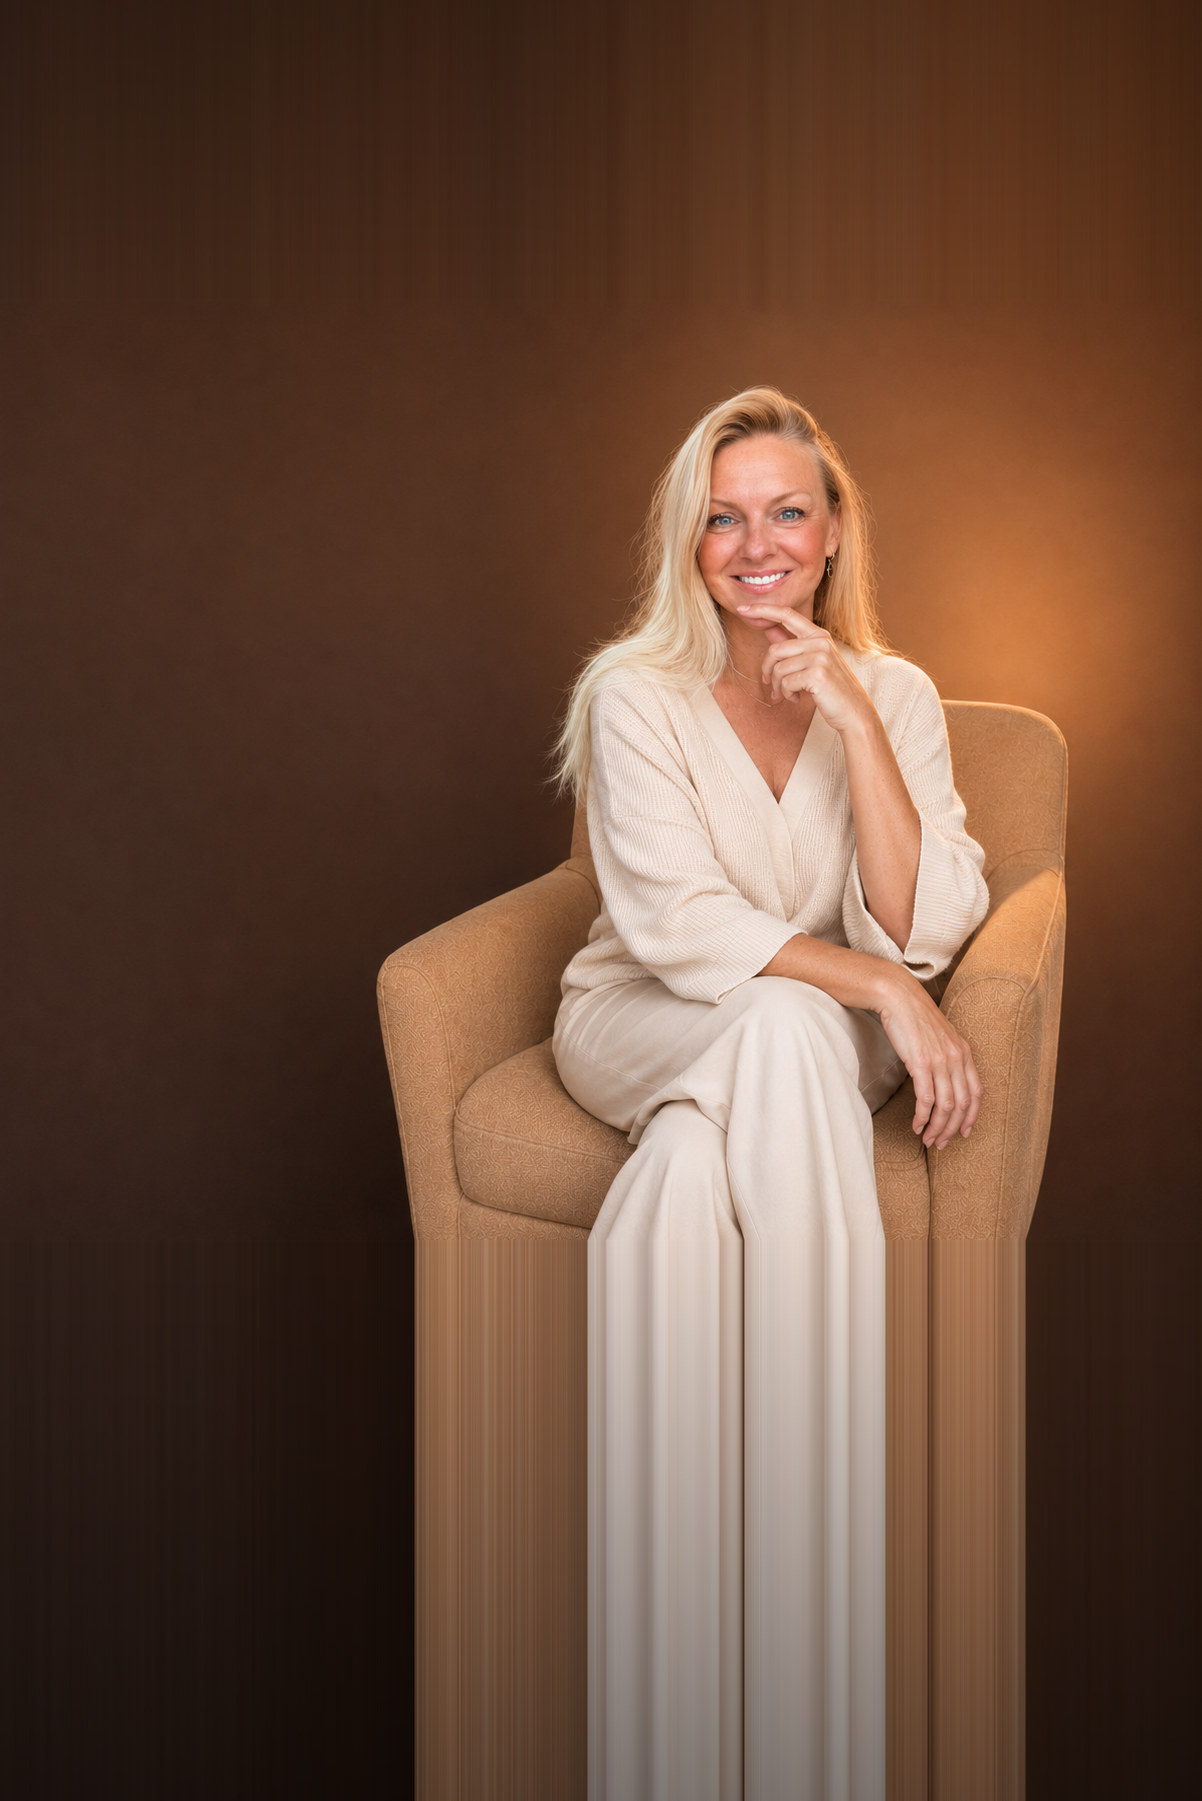
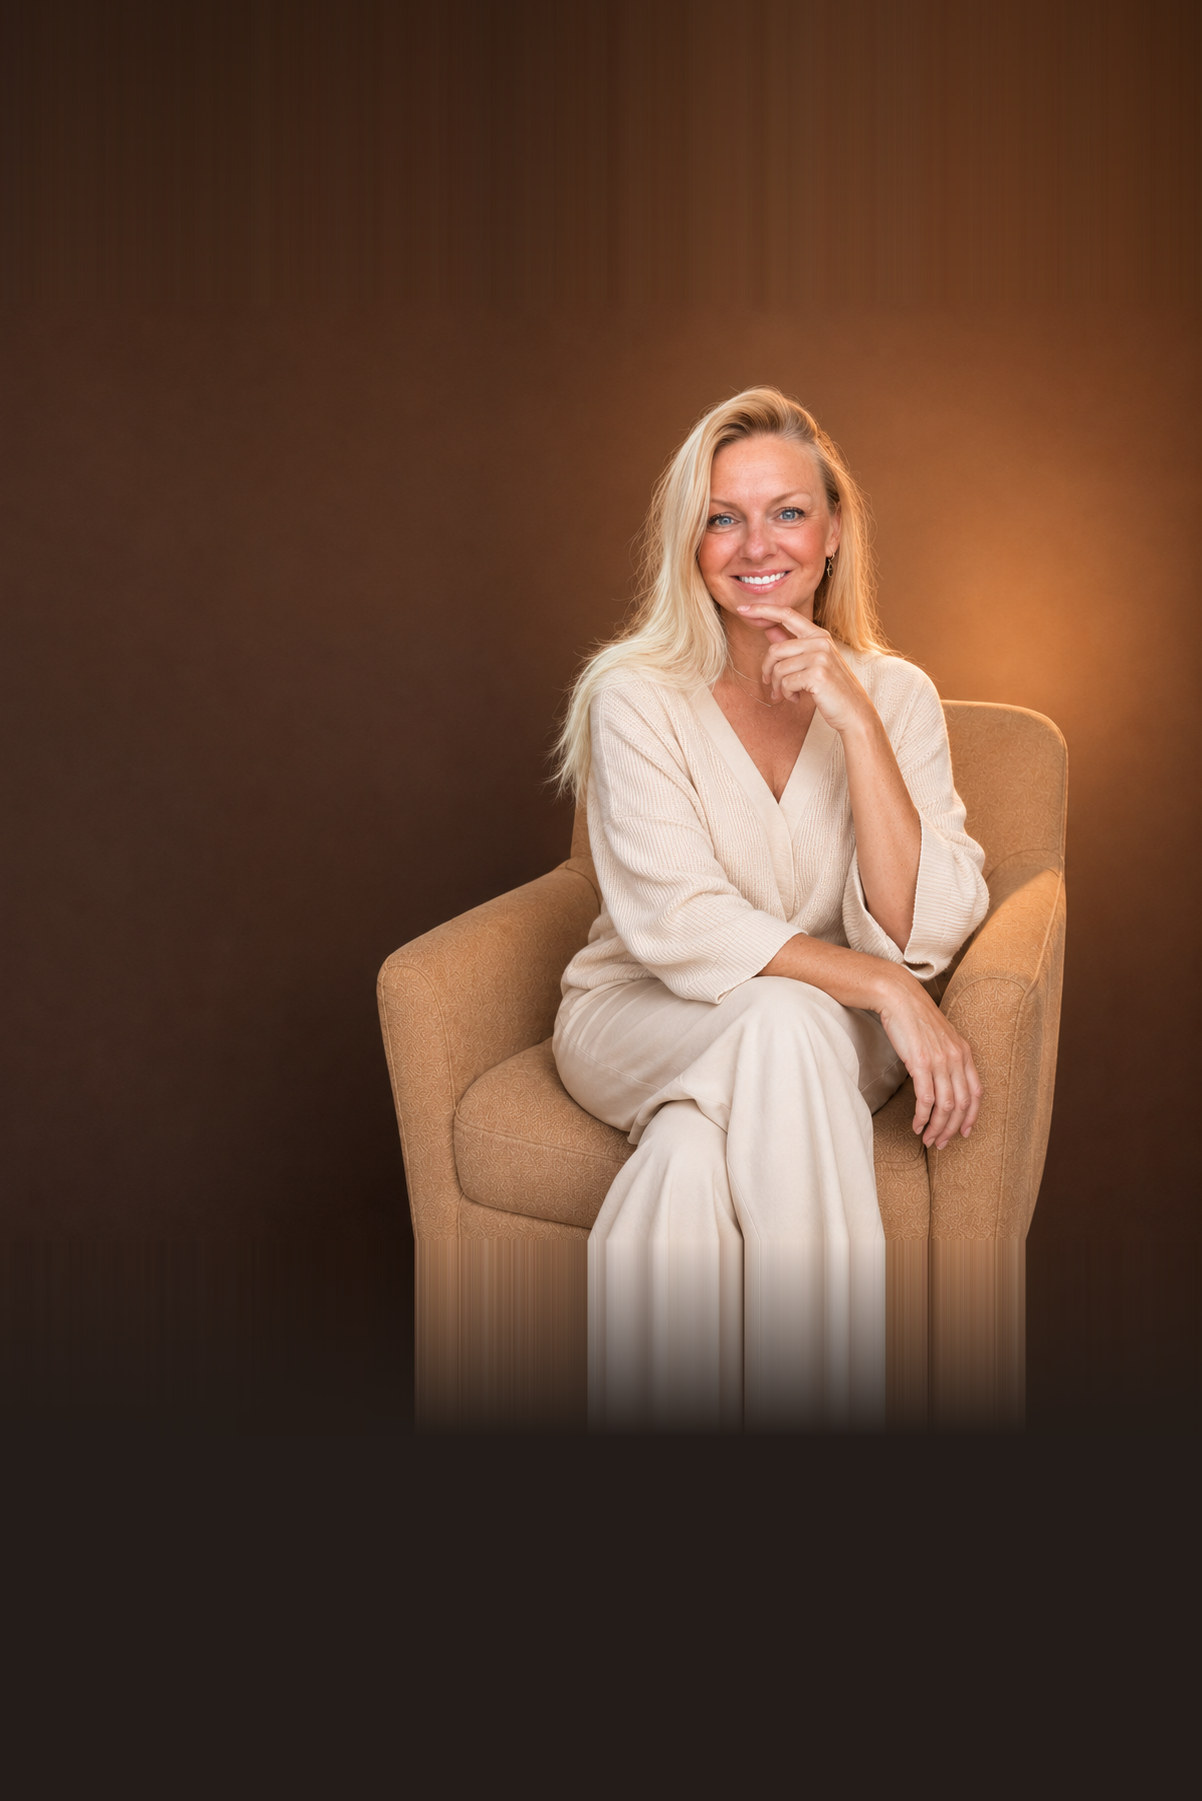
Низ кадра гаснет в фон, высота первого экрана прибита скриптом
Растяжка. Верх кадра надставлялся верхней строкой фотографии — там ровный
тёмный градиент, растянуть незаметно. Снизу тот же приём не работает:
последняя строка это ноги и кресло, и растянутая вниз она читалась как
размазанные полосы. Теперь низ не растягивается, а гаснет: строка быстро
уходит в тёмный тон первого экрана и дальше идёт ровная заливка. Кадр
выглядит уходящим в темноту, а не оборванным.

Скролл. Единицы svh хватило не всем: их не знают старые iOS и встроенные
браузеры мессенджеров, а оттуда ссылку открывают часто. Высота первого
экрана теперь считается один раз при загрузке и прибивается в пикселях.
Пересчёт только при смене ШИРИНЫ, то есть при повороте экрана: изменение
одной высоты и есть та самая уехавшая адресная строка, на неё не реагируем.
svh остаётся в CSS как поведение по умолчанию, если скрипт не отработал.

Changed region(s): [[0.3386, 0.6841, 0.8619, 1.0]]

diff --git a/site/assets/site.js b/site/assets/site.js
@@ -265,6 +265,50 @@
   syncSubmit();
 })();
 
+/* ─────────────────────── первый экран: высота не пляшет при скролле ──
+   Высота задана в долях экрана, а на телефоне экран «дышит»: при скролле
+   прячется адресная строка, высота растёт, кадр внутри пересчитывается —
+   и портрет заметно наезжает. Единица svh это чинит, но её не знают
+   старые iOS и встроенные браузеры мессенджеров, а именно оттуда чаще
+   всего и открывают ссылку.
+
+   Поэтому высота считается один раз при загрузке и прибивается в пикселях.
+   Пересчёт — только когда меняется ШИРИНА, то есть при повороте экрана:
+   изменение одной высоты и есть та самая уехавшая адресная строка. */
+
+(function () {
+  'use strict';
+
+  var stage = document.querySelector('[data-hero-stage]');
+  if (!stage || !window.matchMedia) return;
+
+  var phone = window.matchMedia('(max-width: 760px)');
+  var pinnedWidth = null;
+
+  function pin() {
+    if (!phone.matches) {
+      stage.style.removeProperty('height');
+      pinnedWidth = null;
+      return;
+    }
+    var h = Math.min(Math.max(window.innerHeight * 0.94, 600), 960);
+    stage.style.setProperty('height', Math.round(h) + 'px', 'important');
+    pinnedWidth = window.innerWidth;
+  }
+
+  pin();
+
+  window.addEventListener('resize', function () {
+    if (window.innerWidth !== pinnedWidth) pin();
+  });
+
+  window.addEventListener('orientationchange', function () {
+    setTimeout(pin, 250);            // размеры устаканиваются не сразу
+  });
+
+  if (phone.addEventListener) phone.addEventListener('change', pin);
+})();
+
 
 (function () {
   var KEY = 'cookie_ok', bar = document.getElementById('cookie-bar');

diff --git a/build-assets/site.js b/build-assets/site.js
@@ -264,3 +264,47 @@
 
   syncSubmit();
 })();
+
+/* ─────────────────────── первый экран: высота не пляшет при скролле ──
+   Высота задана в долях экрана, а на телефоне экран «дышит»: при скролле
+   прячется адресная строка, высота растёт, кадр внутри пересчитывается —
+   и портрет заметно наезжает. Единица svh это чинит, но её не знают
+   старые iOS и встроенные браузеры мессенджеров, а именно оттуда чаще
+   всего и открывают ссылку.
+
+   Поэтому высота считается один раз при загрузке и прибивается в пикселях.
+   Пересчёт — только когда меняется ШИРИНА, то есть при повороте экрана:
+   изменение одной высоты и есть та самая уехавшая адресная строка. */
+
+(function () {
+  'use strict';
+
+  var stage = document.querySelector('[data-hero-stage]');
+  if (!stage || !window.matchMedia) return;
+
+  var phone = window.matchMedia('(max-width: 760px)');
+  var pinnedWidth = null;
+
+  function pin() {
+    if (!phone.matches) {
+      stage.style.removeProperty('height');
+      pinnedWidth = null;
+      return;
+    }
+    var h = Math.min(Math.max(window.innerHeight * 0.94, 600), 960);
+    stage.style.setProperty('height', Math.round(h) + 'px', 'important');
+    pinnedWidth = window.innerWidth;
+  }
+
+  pin();
+
+  window.addEventListener('resize', function () {
+    if (window.innerWidth !== pinnedWidth) pin();
+  });
+
+  window.addEventListener('orientationchange', function () {
+    setTimeout(pin, 250);            // размеры устаканиваются не сразу
+  });
+
+  if (phone.addEventListener) phone.addEventListener('change', pin);
+})();

diff --git a/site/index.html b/site/index.html
@@ -29,10 +29,10 @@
       <div data-hero-photo="" style="position: absolute; inset: 0;">
         <picture>
           <source media="(max-width: 760px)" type="image/webp"
-                  srcset="/assets/img/hero-mob-sm.webp?v=1d67f14e 620w, /assets/img/hero-mob.webp?v=caf7542c 1202w"
+                  srcset="/assets/img/hero-mob-sm.webp?v=79543081 620w, /assets/img/hero-mob.webp?v=415692c8 1202w"
                   sizes="100vw">
           <source media="(max-width: 760px)" type="image/jpeg"
-                  srcset="/assets/img/hero-mob-sm.jpg?v=cd1b7695 620w, /assets/img/hero-mob.jpg?v=e2780a86 1202w"
+                  srcset="/assets/img/hero-mob-sm.jpg?v=dc4e8de0 620w, /assets/img/hero-mob.jpg?v=b555f44c 1202w"
                   sizes="100vw">
           <source type="image/webp"
                   srcset="/assets/img/hero-sm.webp?v=040b201d 1200w, /assets/img/hero.webp?v=6a16817e 1672w"
@@ -818,6 +818,6 @@
   <button type="button" id="cookie-ok">Хорошо</button>
 </div>
 
-<script src="/assets/site.js?v=4bf4ee48"></script>
+<script src="/assets/site.js?v=e27261b0"></script>
 </body>
 </html>

diff --git a/site/offer/index.html b/site/offer/index.html
@@ -1834,6 +1834,6 @@ data-cites="violamarohelper">@violamarohelper</span></td>
   <button type="button" id="cookie-ok">Хорошо</button>
 </div>
 
-<script src="/assets/site.js?v=4bf4ee48"></script>
+<script src="/assets/site.js?v=e27261b0"></script>
 </body>
 </html>

diff --git a/site/terms/index.html b/site/terms/index.html
@@ -333,6 +333,6 @@ data-cites="violamarohelper">@violamarohelper</span></td>
   <button type="button" id="cookie-ok">Хорошо</button>
 </div>
 
-<script src="/assets/site.js?v=4bf4ee48"></script>
+<script src="/assets/site.js?v=e27261b0"></script>
 </body>
 </html>

diff --git a/site/consent-ads/index.html b/site/consent-ads/index.html
@@ -128,6 +128,6 @@
   <button type="button" id="cookie-ok">Хорошо</button>
 </div>
 
-<script src="/assets/site.js?v=4bf4ee48"></script>
+<script src="/assets/site.js?v=e27261b0"></script>
 </body>
 </html>

diff --git a/build.py b/build.py
@@ -489,19 +489,27 @@ def build_images():
     crop = im.crop((MOBILE_CROP_X, 0, W, H))
     cw = crop.width
 
-    # Надставки строятся из крайних строк фотографии: сверху это ровный
-    # тёмный градиент без деталей, снизу — низ кресла. Шов приходится ровно
-    # на исходную строку, поэтому не виден. Нижняя треть кадра всё равно
-    # закрыта вуалью и кнопками, там растяжка не читается.
-    def stretch(row, height, k0, k1):
-        band = Image.new("RGB", (cw, height))
-        for i in range(height):
-            k = k0 + (k1 - k0) * (i / (height - 1))
-            band.paste(row.point(lambda v, k=k: int(v * k)), (0, i))
-        return band
+    # Надставка сверху — из верхней строки фотографии: там ровный тёмный
+    # градиент без деталей, растянуть его вверх незаметно.
+    #
+    # Снизу так не выходит: последняя строка — это ноги и кресло, и растянутая
+    # вниз она читается как размазанные полосы. Поэтому низ не растягивается,
+    # а гаснет: строка быстро уходит в тёмный фон страницы и дальше идёт ровная
+    # заливка. Кадр выглядит уходящим в темноту, а не оборванным.
+    GROUND = (36, 28, 24)          # #241C18 — тёмный тон первого экрана
 
-    top = stretch(crop.crop((0, 0, cw, 1)), MOBILE_EXT_TOP, 0.72, 1.0)
-    bottom = stretch(crop.crop((0, H - 1, cw, H)), MOBILE_EXT_BOTTOM, 1.0, 0.55)
+    top = Image.new("RGB", (cw, MOBILE_EXT_TOP))
+    row0 = crop.crop((0, 0, cw, 1))
+    for i in range(MOBILE_EXT_TOP):
+        k = 0.72 + 0.28 * (i / (MOBILE_EXT_TOP - 1))
+        top.paste(row0.point(lambda v, k=k: int(v * k)), (0, i))
+
+    rowN = crop.crop((0, H - 1, cw, H))
+    ground = Image.new("RGB", (cw, 1), GROUND)
+    bottom = Image.new("RGB", (cw, MOBILE_EXT_BOTTOM))
+    for i in range(MOBILE_EXT_BOTTOM):
+        t = min(1.0, (i / MOBILE_EXT_BOTTOM) / 0.35)      # к 35% уже сплошной фон
+        bottom.paste(Image.blend(rowN, ground, t), (0, i))
 
     mob = Image.new("RGB", (cw, MOBILE_EXT_TOP + H + MOBILE_EXT_BOTTOM))
     mob.paste(top, (0, 0))
